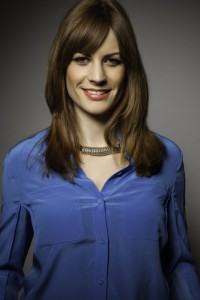
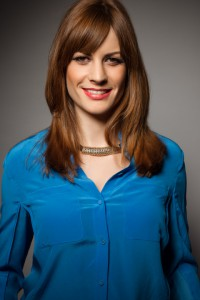
Changed people and testimonials plugin name. Updated Helen portrait image.

diff --git a/wp-content/plugins/mavis-testimonials/mavis-testimonials.php b/wp-content/plugins/mavis-testimonials/mavis-testimonials.php
@@ -1,8 +1,8 @@
 <?php
 
 /*
-Plugin Name: Testimonials
-Plugin URI: 
+Plugin Name: Mavis Testimonials
+Plugin URI: http://www.hellomavis.com
 Description: Creates a "Testimonials" custom post type.
 Version: 1.0
 Author: Robert Sargent

diff --git a/wp-content/plugins/mavis-people/mavis-people.php b/wp-content/plugins/mavis-people/mavis-people.php
@@ -1,8 +1,8 @@
 <?php
 
 /*
-Plugin Name: People
-Plugin URI: 
+Plugin Name: Mavis People
+Plugin URI: http://www.hellomavis.com
 Description: Creates a "People" custom post type.
 Version: 1.0
 Author: Robert Sargent
